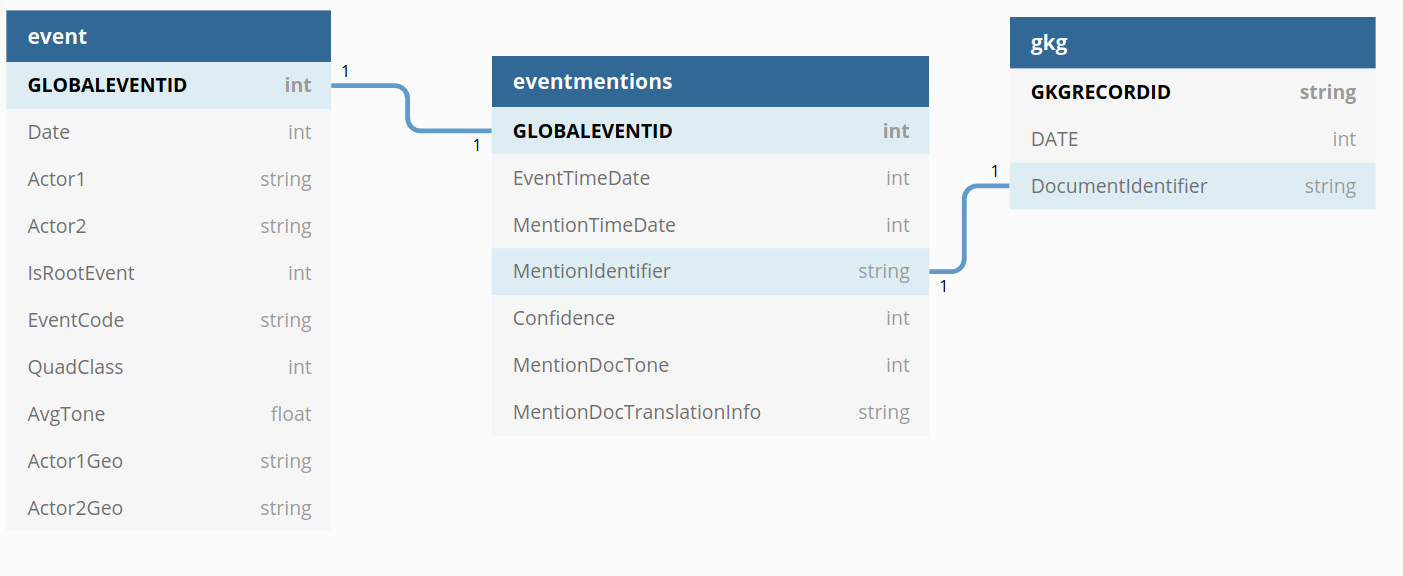
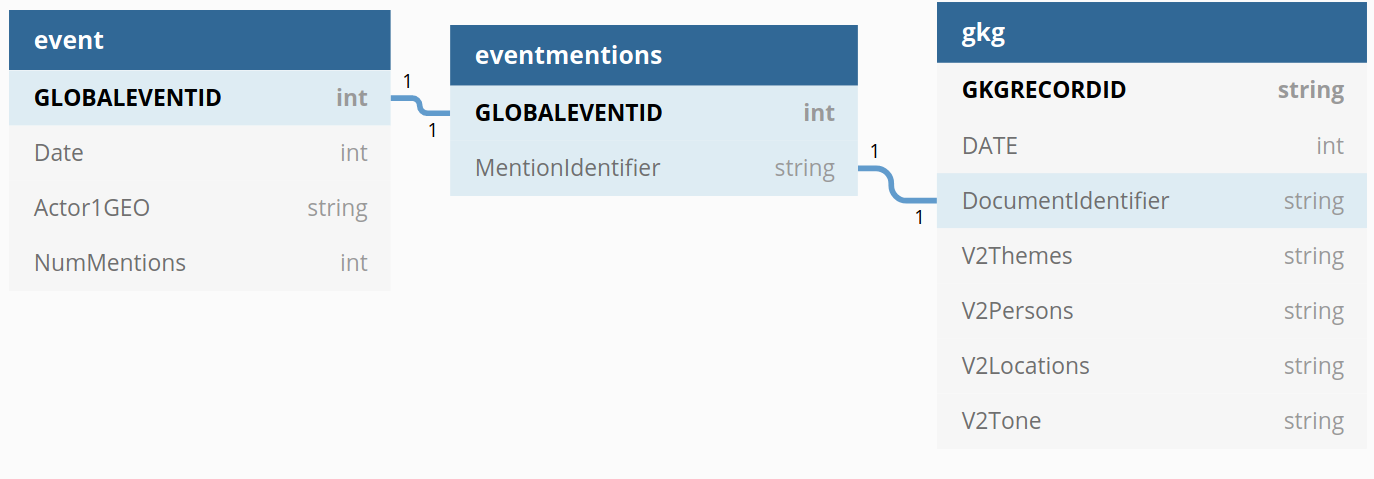
update projet 2019

diff --git a/Summary.md b/Summary.md
@@ -37,9 +37,6 @@ http://data.gdeltproject.org/documentation/GDELT-Global_Knowledge_Graph_Codebook
 
 V2.1TRANSLATIONINFO.    (semicolon-delimited  fields)  This  field  is  used  to  record  provenance information  for  machine  translated  documents  indicating  the  original  source  language  and  the citation of the translation system used to translate the documentfor processing.  It will be blank for  documents  originally  in  English.
 
-## Field useful for our study
-
-<img src="dbschema.png"></img>
 
 # Fonctionnalités Nécessaire
 
@@ -48,36 +45,45 @@ V2.1TRANSLATIONINFO.    (semicolon-delimited  fields)  This  field  is  used  to
 Votre système doit être capable de:
  * afficher le nombre d’articles/évènements qu’il y a eu pour chaque triplet (jour, pays de l’évènement, langue de l’article).
     
+GKG table:
+
 >  Group By sur:
-> 
->  Event table:
->   - SQLDate (in Big query) Day (in doc): jour
->   - ActionGeo_ADM2Code: pays de l'évènement en code AMD2
->   - MentionDocTranslationInfo :  langue de l'article
->  GKG table:
+>   - DATE
+>   - V2Locations 
 >   - TRANSLATIONINFO : langue de l'article
-> 
-> Puis un count
+> Puis un count 
 
- * pour un acteur donné en paramètre, afficher les événements (valeurs de la table events) qui y font référence (dans les derniers 6 mois).
+ * pour un pays donné en paramètre, affichez les évènements qui y ont eu place triées par le nombre de mentions (tri décroissant); permettez une agrégation par jour/mois/année
+Event Table:
 
-> Afficher les events:
-> WHERE 
-> Event table:
->  - Actor1Name ou Actor2Name: acteur donné en paramètre
-> AND 
->  - MonthYear < 6 mois
+> SELECT GLOBALEVENTID 
+> WHERE Pays = Actor1Geo_ADM2Code 
+> GROUP BY: DATE
+> ORDER BY: NumMentions DESC
  
- * trouver les sujets (acteurs) qui ont eu le plus d’articles positifs/negatifs pour chaque triplet (mois, pays, langue de l’article).
 
-> Utilisation de la question 1 + 2 :
-> 
-> Event table:
->  - Action_AvgTone: positifs/negatifs > 10 ou < -10
->
-> Select acteur, count(event) where ( AvgTone > 10 OR < -10 ) GROUP BY acteur ORDER BY count DESC
+ * pour une source de donnés passée en paramètre (gkg.SourceCommonName) affichez les thèmes, personnes, lieux dont les articles de cette sources parlent ainsi que le le nombre d’articles et le ton moyen des articles (pour chaque thème/personne/lieu); permettez une agrégation par jour/mois/année.
 
- * trouver quels sont les acteurs/pays/organisations qui divisent le plus (par exemple ont eu une perception positive dans une partie du globe et une perception negative dans le rest du monde). Permettez une agrégation par jour/mois/annee.
+GKG table:
+
+> SELECT: 
+> V2Themes, V2Persons, V2Locations , V2Tone, Count
+> WHERE Source donné == SourceCommonName
+> GROUP BY Date
+
+ * dresser la cartographie des relations entre les pays d’après le ton des articles : pour chaque paire (pays1, pays2), calculer le nombre d’article, le ton moyen (aggrégations sur Année/Mois/Jour, filtrage par pays ou carré de coordonnées)
+
+GKG table:
+
+> SELECT TranslationInfo, V2Locations , V2Tone, Count 
+> GROUP BY Date
 
 
+## Reduction de la Base de donnée pour notre étude
+
+<img src="dbschema.png"></img>
+
+Les éléments de la table *event* et *eventmention* semblent être suffisant pour le cadre de notre étude.
+
+# Modelisation et choix de la Base de donnée
 
